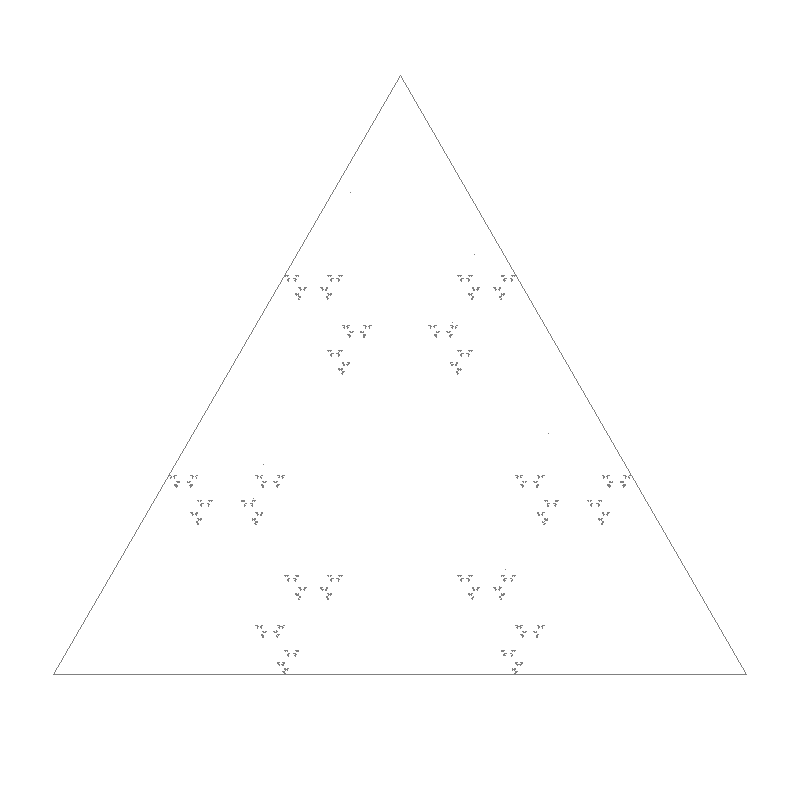
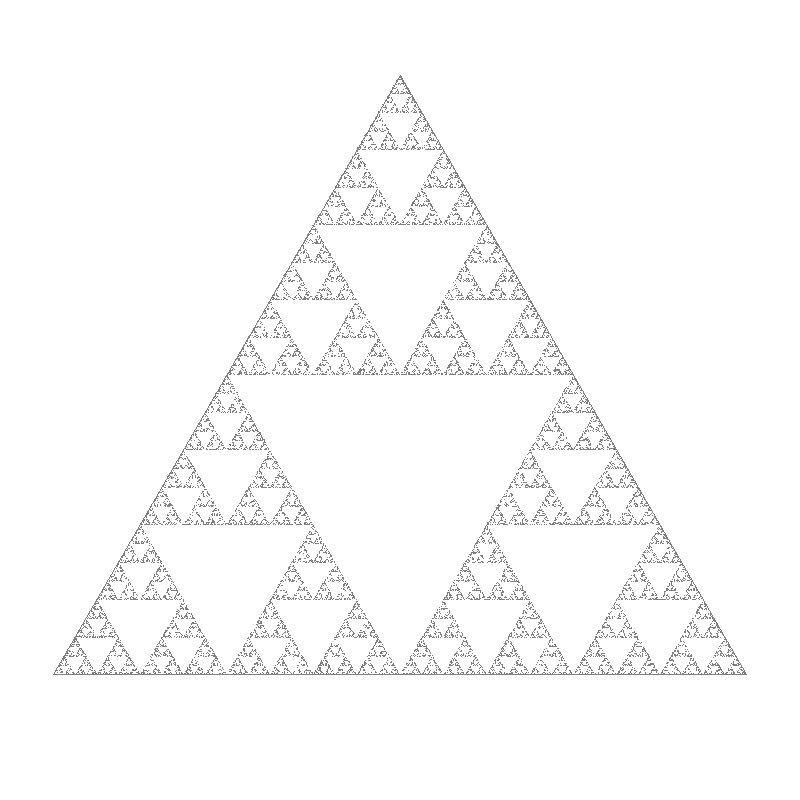
chaos game sierpinski triangle

diff --git a/ChaosGame.py b/ChaosGame.py
@@ -30,22 +30,31 @@ class ChaosGame:
 		self.draw.line([listVertices[0].toTuple(), listVertices[-1].toTuple()], fill='gray', width=1)
 	#generate and draw the next point
 	def generate(self, listVertices, pointReference, previousVertex):
-		for i in range(10000):
+		pointIndex = 0 #it takes a few iterations to settle into the proper pattern
+		imageFilenames = []
+		imageIndex = 0
+		for i in range(25000):
 			nextVertex = self.getRandomVertex(listVertices, previousVertex);
-			fullDistance = pointReference.distance(nextVertex)
-			nextPoint = Geometry.getPointBetweenPoints(pointReference, nextVertex, fullDistance / 2)
-			self.draw.point([nextPoint.toTuple()], fill='gray')
+			nextPoint = Geometry.getPointHalfwayBetweenPoints(pointReference, nextVertex)
+			if(pointIndex > 10):
+				self.draw.point([nextPoint.toTuple()], fill='gray')
 			pointReference = nextPoint
 			previousVertex = nextVertex
+			pointIndex += 1
+			###########################
+			if(imageIndex % 250 == 0):
+				imageFilename = 'output/temp/animation' + str(imageIndex) + '.png'
+				self.image.save(imageFilename)
+				imageFilenames.append(imageFilename)
+			imageIndex += 1
+		Graphics.saveAnimatedGif('output/chaos_game_sierpinski_triangle_animation.gif', imageFilenames);
 	@staticmethod
-	#returns a random vertex that is not the previous vertex
+	#returns a random vertex
+	# NOTE: if I limit the vertex to be different from the current vertex, the triangle does not form
 	def getRandomVertex(listVertices, previousVertex):
 		if (len(listVertices) < 2):
 			raise Exception("Requires at least 2 vertices.")
-		while(True):
-			nextVertex = random.choice(listVertices)
-			if (previousVertex == None or previousVertex != nextVertex):
-				return nextVertex
+		return random.choice(listVertices)
 		
 #################################
 

diff --git a/Utilities.py b/Utilities.py
@@ -1,4 +1,5 @@
 import math as Math
+import imageio
 
 #represents an (x,y) coordinate
 class Point:
@@ -30,6 +31,9 @@ class Geometry:
 	@staticmethod
 	def degreesToRadians(degrees):
 		return degrees * Math.pi / 180
+	@staticmethod
+	def getPointHalfwayBetweenPoints(pointA, pointB):
+		return Point((pointA.x + pointB.x) / 2, (pointA.y + pointB.y) / 2)
 	@staticmethod
 	#returns a point that is "distance" away from "start", moving towards "end"
 	def getPointBetweenPoints(pointStart, pointEnd, distanceFromStart):
@@ -87,3 +91,13 @@ class Geometry:
 			if (minPoint == None or minPoint.y > point.y):
 				minPoint = point
 		return minPoint
+
+#static graphical operations		
+class Graphics:
+	@staticmethod
+	def saveAnimatedGif(filename, imageFilenames):
+		images = []
+		for imageFilename in imageFilenames:
+			images.append(imageio.imread(imageFilename))
+		imageio.mimsave(filename, images, fps=10)
+		
